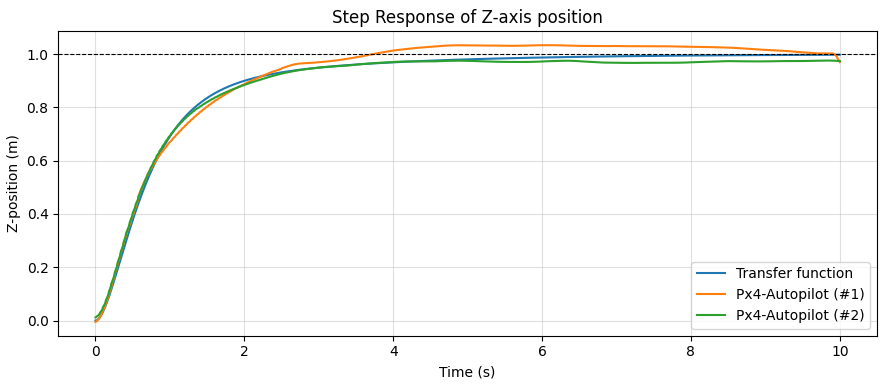
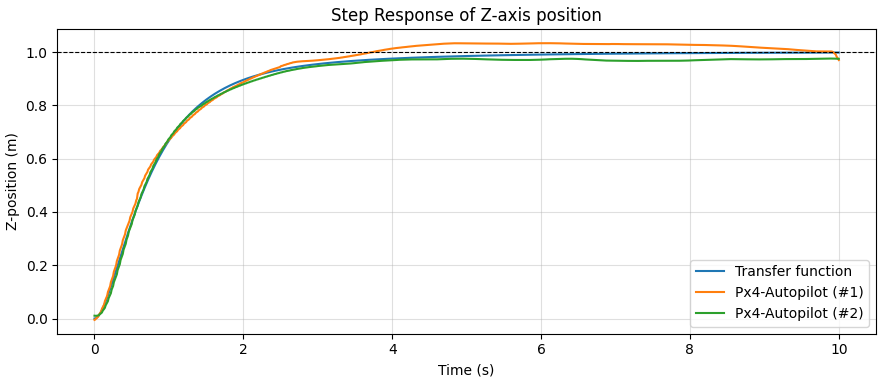
Edit z-axis step response plot #1

diff --git a/px4_sitl_scripts/regulation3_z.py b/px4_sitl_scripts/regulation3_z.py
@@ -30,7 +30,7 @@ Kp_vel  = 4.0;   Ki_vel  = 2.0;   Kd_vel  = 0.0
 
 #P_angacc  = control.tf([1],    [1, 0])      # τ → θ_dot     (1/Js)
 #P_att     = control.tf([1],    [1, 0])      # θ_dot → θ     (1/s)
-P_vel     = control.tf([m],    [1, -1])      # θ → ẋ         (g/s)
+P_vel     = control.tf([m],    [1, -0.5])      # θ → ẋ         (g/s)
 P_pos     = control.tf([1],    [1, 0])      # ẋ → x         (1/s)
 
 # ══════════════════════════════════════════════════════════════════════════
@@ -91,7 +91,7 @@ df2 = pd.read_csv("PID_step_1_z/data.csv")
 #print(df.iloc[0])
 #print(df['/fmu/out/vehicle_odometry/position[0]'])
 
-data2 = df2['/fmu/out/vehicle_odometry/position[2]'].values[8900:9900]
+data2 = df2['/fmu/out/vehicle_odometry/position[2]'].values[8895:9895]
 #data2 = df2['/fmu/out/vehicle_odometry/position[2]'].values[6850:7850]
 #data1 = df1['/fmu/out/vehicle_odometry/position[2]'].values[6435:7435]
 #data1 = df1['/fmu/out/vehicle_odometry/position[2]'].values[7245:8245]
